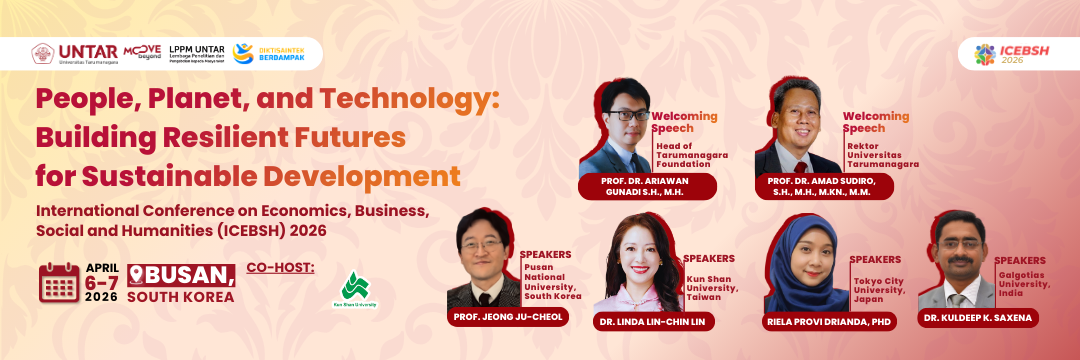
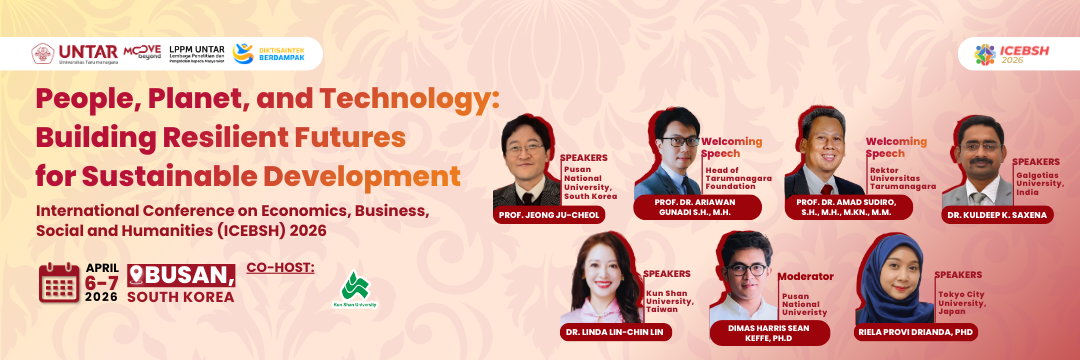
add speaker + co-host

Changed region(s): [[0.3972, 0.2139, 1.0, 0.9778]]

diff --git a/callforpaper.html b/callforpaper.html
@@ -140,6 +140,15 @@
         </p>
         <img src="img/kunshan.png" alt="">
     </div>
+
+    <div class="partner-item">
+        <h3>CO-HOST BY</h3>
+        <p>
+            <a hrefa="https://www.pusan.ac.kr/eng/Main.do" target="_blank">
+            Pusan National University</a>
+        </p>
+        <img src="img/pusan.jpeg" alt="">
+    </div>
 </section>
 
 <footer>

diff --git a/index.html b/index.html
@@ -86,6 +86,15 @@
         </p>
         <img src="img/kunshan.png" alt="">
     </div>
+    
+    <div class="partner-item">
+        <h3>CO-HOST BY</h3>
+        <p>
+            <a href="https://www.pusan.ac.kr/eng/Main.do" target="_blank">
+            Pusan National University</a>
+        </p>
+        <img src="img/pusan.jpeg" alt="">
+    </div>
 </section>
 </div>
 

diff --git a/style.css b/style.css
@@ -128,8 +128,7 @@ body {
     display:block;
 }
 
-/* RESPONSIVE */
-
+/* Home Page Banner */
 .hero-banner {
     width: 100%;
     height: 130vh;         
